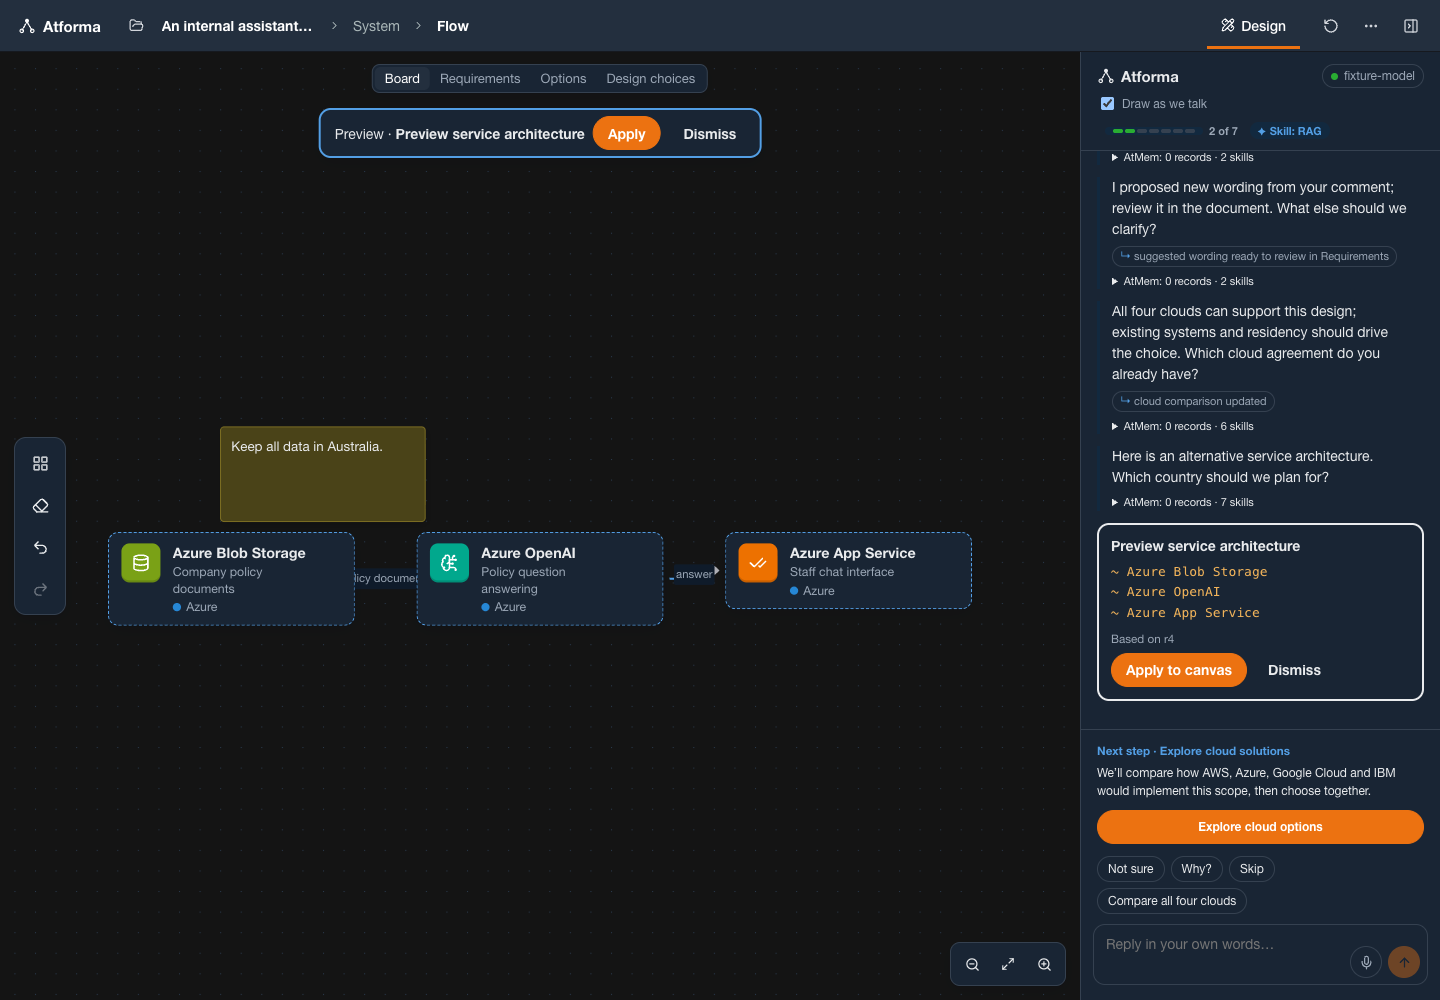
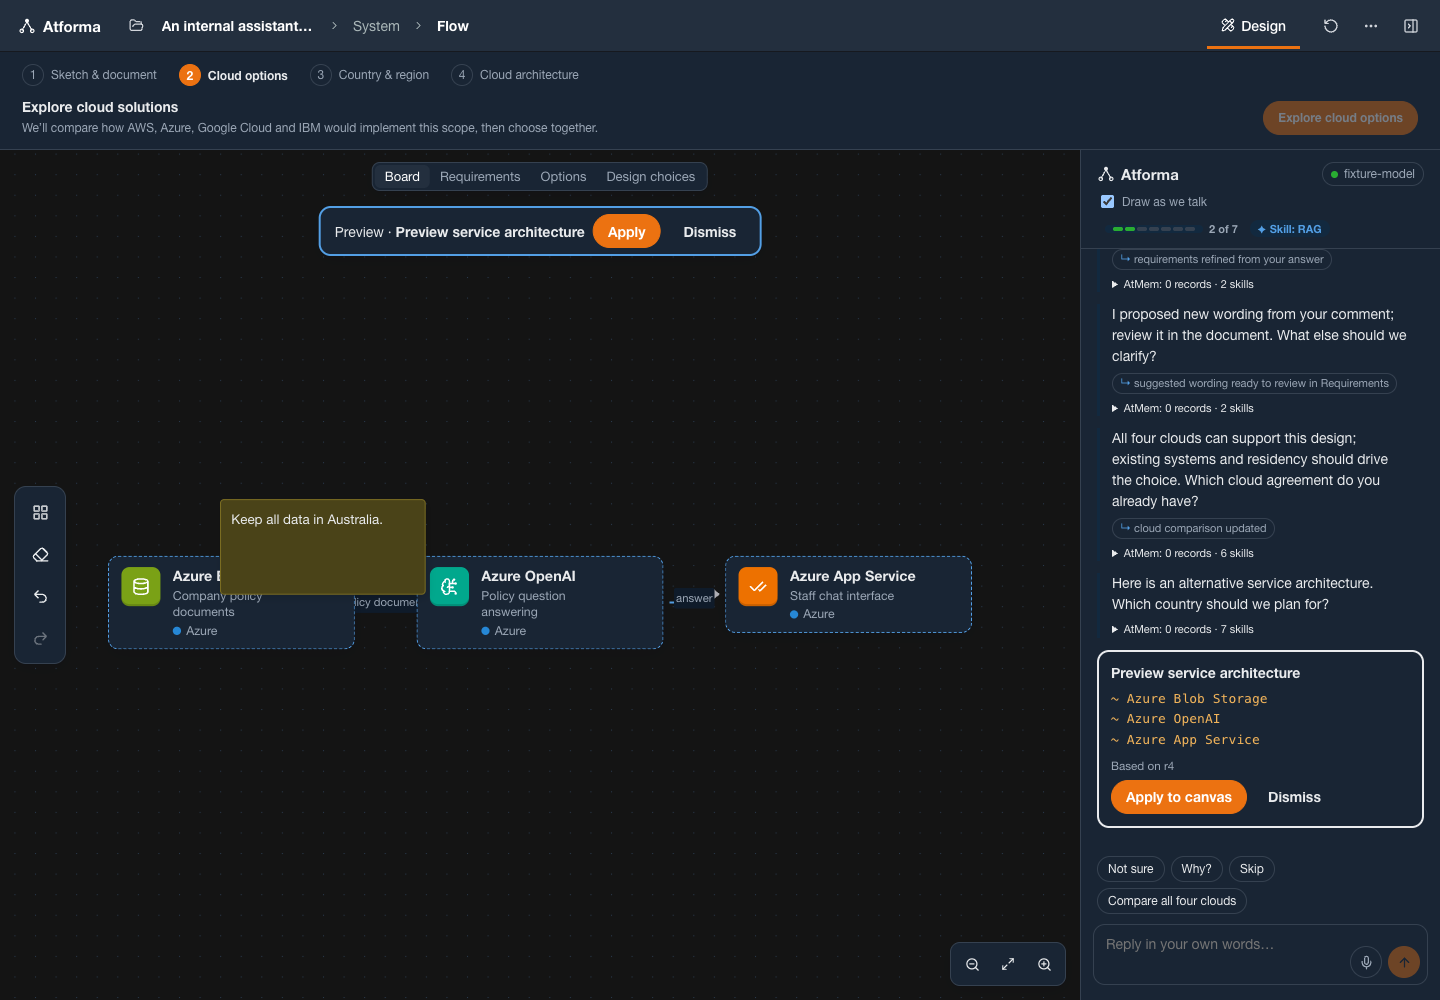
fix: expose guided cloud journey above the board

diff --git a/src/main.jsx b/src/main.jsx
@@ -1590,6 +1590,20 @@ function App() {
         )}
       </header>
 
+      <section className="journey-wizard" aria-label="Architecture journey">
+        <ol className="journey-steps">{[
+          ['scope','Sketch & document'],['cloud','Cloud options'],['location','Country & region'],['architecture','Cloud architecture'],
+          ...(guidance.availableModes.includes('review')?[['review','Review']]:[]),
+          ...(guidance.availableModes.includes('estimate')?[['estimate','Costs']]:[]),
+          ...(guidance.availableModes.includes('deploy')?[['delivery','Delivery draft']]:[])
+        ].map(([id,label],i)=><li key={id} aria-current={(guidance.id==='idea'?'scope':guidance.id)===id?'step':undefined}><span>{i+1}</span>{label}</li>)}</ol>
+        <div className="journey-current"><div><strong>{guidance.title}</strong><p>{guidance.reason}</p></div>
+          <div className="journey-actions">
+            <button className="btn primary" disabled={busy||agentBusy||!!pending} onClick={()=>guidance.checkpoint?continueJourney():followJourney()}>{guidance.checkpoint?guidance.continueLabel+' →':guidance.action}</button>
+            {guidance.checkpoint&&<button className="link" disabled={busy||agentBusy} onClick={()=>followJourney()}>{guidance.action}</button>}
+          </div>
+        </div>
+      </section>
       <main
         id="canvas"
         className={`canvas level-${level}`}
@@ -1897,7 +1911,7 @@ function App() {
         )}
 
         {mode === "design" && designView === "options" && (
-          <OptionsView project={project} onPreview={(provider)=>{setDesignView("board");setLevel("flow");setChatOpen(true);send(`Preview a concrete ${OPTION_NAMES[provider]} implementation of our working scope, using actual named services in data.service and explicit connections. Keep existing systems and comments. Use the known country/residency constraints, or leave region undecided and ask the country question. This is an alternative preview, not a cloud choice or deployment. Return a graph proposal and explain key integration assumptions.`,"preview",{mode:"design",view:"board"});}} onDiscuss={(question) => { setChatOpen(true); send(question, "workflow"); }} />
+          <OptionsView project={project} onChoose={provider=>{setChatOpen(true);send(`Use ${OPTION_NAMES[provider]} for this project.`,"chat",{mode:"design",view:"options"});}} onPreview={(provider)=>{setDesignView("board");setLevel("flow");setChatOpen(true);send(`Preview a concrete ${OPTION_NAMES[provider]} implementation of our working scope, using actual named services in data.service and explicit connections. Keep existing systems and comments. Use the known country/residency constraints, or leave region undecided and ask the country question. This is an alternative preview, not a cloud choice or deployment. Return a graph proposal and explain key integration assumptions.`,"preview",{mode:"design",view:"board"});}} onDiscuss={(question) => { setChatOpen(true); send(question, "workflow"); }} />
         )}
         {mode === "design" && designView === "decisions" && (
           <DecisionsView project={project} onDiscuss={(question) => { setChatOpen(true); send(question, "workflow"); }} />
@@ -2024,11 +2038,6 @@ function App() {
             )}
             <div ref={chatEnd} />
           </div>
-          <section className="journey-guide" aria-label="Your next step">
-            <small>Next step · {guidance.title}</small><p>{guidance.reason}</p>
-            <button className="btn primary" disabled={busy||agentBusy} onClick={()=>followJourney()}>{guidance.action}</button>
-            {guidance.checkpoint && mode===guidance.mode && designView===guidance.view && <button className="link journey-continue" disabled={busy||agentBusy||!!pending} onClick={continueJourney}>{guidance.continueLabel} →</button>}
-          </section>
           <div className="prompts">
             {mode === "design" && brief(project) && ask && (
               <>

diff --git a/src/atflow.css b/src/atflow.css
@@ -814,3 +814,19 @@ label.inline input { width: 60px; }
 .journey-guide p { font-size:12px; line-height:1.5; margin:6px 0 10px; }
 .journey-guide .btn { width:100%; font-size:12px; padding:7px 10px; }
 .journey-continue { display:block; margin-top:8px; font-size:12px; text-align:left; }
+
+/* Journey stays visible above the workspace, even with chat closed. */
+.app { grid-template-rows:52px auto minmax(0,1fr); }
+.journey-wizard { grid-column:1 / -1; padding:12px 22px; background:var(--paper); border-bottom:1px solid var(--line); min-width:0; }
+.journey-steps { display:flex; align-items:center; flex-wrap:wrap; gap:10px 22px; list-style:none; padding:0; margin:0 0 12px; }
+.journey-steps li { display:flex; align-items:center; gap:7px; color:var(--ink-2); font-size:12px; }
+.journey-steps li span { width:22px; height:22px; display:grid; place-items:center; border:1px solid var(--line); border-radius:50%; }
+.journey-steps li[aria-current=step] { color:var(--ink); font-weight:700; }
+.journey-steps li[aria-current=step] span { background:var(--action); color:#fff; border-color:var(--action); }
+.journey-current { display:flex; align-items:center; justify-content:space-between; gap:24px; }
+.journey-current strong { font-size:14px; }
+.journey-current p { margin:4px 0 0; color:var(--ink-2); font-size:12px; line-height:1.5; }
+.journey-actions { display:flex; align-items:center; gap:14px; flex-shrink:0; }
+.journey-actions .btn, .journey-actions .link { font-size:12px; }
+.consultation-summary > button { margin-right:14px; margin-top:8px; }
+@media(max-width:900px){.app { grid-template-rows:auto auto 60vh auto; }.journey-wizard{padding:12px;}.journey-current{align-items:flex-start;flex-direction:column;gap:12px;}.journey-actions{flex-wrap:wrap;}.journey-steps{gap:8px 14px;}}

diff --git a/src/EngagementViews.jsx b/src/EngagementViews.jsx
@@ -129,7 +129,7 @@ export function DiscoverView({ project, onChange, topics, open = true, onToggle 
   );
 }
 
-export function OptionsView({ project, onDiscuss, onPreview }) {
+export function OptionsView({ project, onDiscuss, onPreview, onChoose }) {
   const notes = project.assessment?.notes || {};
   const ready = Object.values(notes).some(Boolean);
   return <section className="doc" aria-label="Options">
@@ -139,7 +139,7 @@ export function OptionsView({ project, onDiscuss, onPreview }) {
     {['current','aws','azure','gcp','ibm'].filter(id => notes[id]).map(id => <article className="consultation-summary" key={id}>
       <h3>{OPTION_NAMES[id]}</h3><p>{notes[id].replace(/^Atforma proposal — confirm: /,'')}</p>
       <button className="link" onClick={() => onDiscuss(`Explain how ${OPTION_NAMES[id]} fits our design and the main tradeoff. Ask one question to help me decide; keep this as a discussion until I explicitly choose.`)}>Discuss this option</button>
-      {id!=="current" && <button className="link" onClick={()=>onPreview(id)}>Preview service architecture</button>}
+      {id!=="current" && <><button className="link" onClick={()=>onPreview(id)}>Preview service architecture</button><button className="btn" onClick={()=>onChoose(id)}>Choose {OPTION_NAMES[id]}</button></>}
     </article>)}
   </section>;
 }

diff --git a/README.md b/README.md
@@ -94,8 +94,8 @@ Use **Comment or request a change**, or select requirement text and right-click 
 
 ## Guided progression
 
-A new project shows the design workspace. The chat's **Next step** explains the current goal and leads the next conversation. Sketch and requirements evolve together; **Explore cloud solutions with this scope** acknowledges a working scope. The architect compares actual service combinations across AWS, Azure, Google Cloud and IBM. **Preview service architecture** draws an alternative as a pending preview; it does not select a cloud or overwrite the current board.
+A new project shows the design workspace. The journey strip above the board stays visible with chat open or closed: **Sketch & document → Cloud options → Country & region → Cloud architecture**. It highlights the current stage and gives the next action. Sketch and requirements evolve together; **Continue to cloud options** acknowledges a working scope from either the board or document. The architect compares actual service combinations across AWS, Azure, Google Cloud and IBM. **Preview service architecture** draws an alternative as a pending preview; it does not select a cloud or overwrite the current board.
 
-After the cloud choice, Atforma asks about country/residency and refines the board into named services, placement and labelled interactions. Review appears after the user continues with that service design. Estimate follows the risk discussion; Delivery draft follows the cost discussion. These checkpoints acknowledge working drafts, including open risks and cost gaps; they are not claims of verified cloud compatibility or permission to deploy. Revising scope or service architecture reopens the relevant earlier step. Progress is stored in the project file.
+Use **Choose AWS**, **Choose Azure**, **Choose Google Cloud**, or **Choose IBM** on an option to tell the architect your selection. After the cloud choice, Atforma asks about country/residency and refines the board into named services, placement and labelled interactions. Review appears after the user continues with that service design. Estimate follows the risk discussion; Delivery draft follows the cost discussion. These checkpoints acknowledge working drafts, including open risks and cost gaps; they are not claims of verified cloud compatibility or permission to deploy. Revising scope or service architecture reopens the relevant earlier step. Progress is stored in the project file.
 
 See [guided journey implementation and validation](docs/GUIDED_JOURNEY.md). `python -m scripts.live-guided-check codex` is an opt-in real account check using synthetic data; it incurs model usage and never deploys resources.

diff --git a/docs/GUIDED_JOURNEY.md b/docs/GUIDED_JOURNEY.md
@@ -2,6 +2,8 @@
 
 The main consultation moves from sketch/document to cloud choice, country/residency, named service architecture, risk review, cost estimate and delivery draft. Later views and delivery export actions remain hidden until the relevant working-draft checkpoint. The current next step is passed to the model on every turn. Navigation alone does not mark a stage complete.
 
+The always-visible journey strip above the workspace highlights the current stage, explains its purpose and exposes the primary next action even when chat is closed. **Continue to cloud options** works from the board as well as Requirements. Each cloud comparison has a **Choose** action that sends the explicit selection into the consultation; country/residency is the next interview step. Service previews remain separate from provider selection.
+
 Project-scoped compact change fingerprints invalidate downstream checkpoints when confirmed scope, service selection, placement, connections or costs change. Requirements, comments, cloud previews and undo/redo keep their existing behavior. A preview is a complete candidate graph but does not modify the active board until applied; previewing a cloud does not record an accepted cloud choice.
 
 Service mapping checks the selected provider against a bounded local name catalogue, region/global-placement fields and labelled connections. This detects generic or unmapped blocks. It does not query cloud inventories, validate regional service/model availability, verify IAM or networking, or prove integrations work. These remain explicit review/engineering tasks. The native Terraform exporter still covers S3 foundations only; no cloud deployment tool exists.
